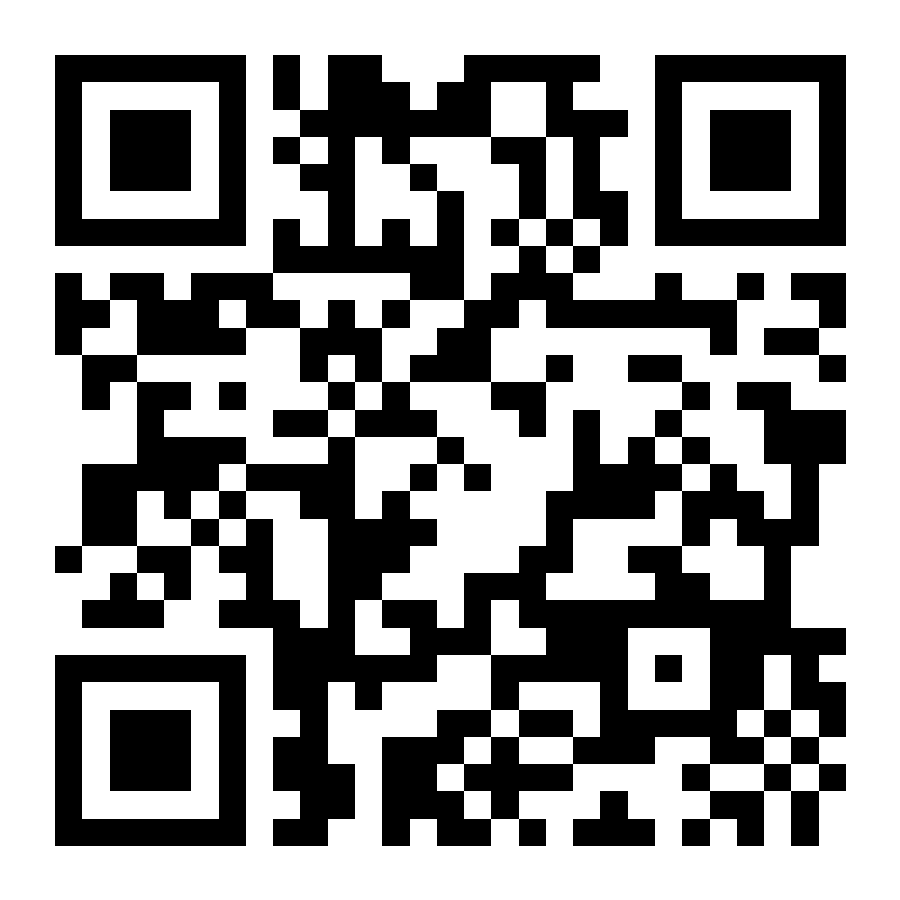
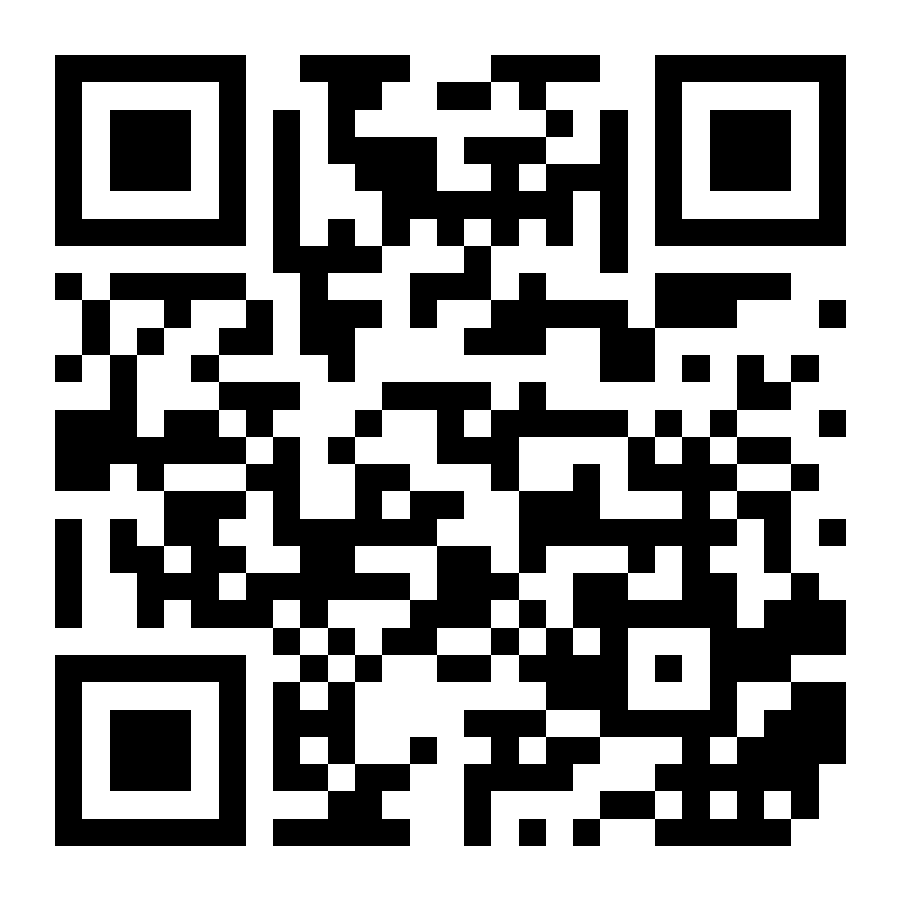
fix

Changed region(s): [[0.0622, 0.0622, 0.9644, 0.9644], [0.4978, 0.0622, 0.56, 0.0933]]

diff --git a/bcard/index.html b/bcard/index.html
@@ -2,39 +2,97 @@
 <html lang="en">
 <head>
 <meta charset="utf-8">
-<meta name="viewport" content="width=device-width, initial-scale=1, viewport-fit=cover, user-scalable=no">
-<meta name="theme-color" content="#050c1f">
-<meta name="mobile-web-app-capable" content="yes">
-<meta name="apple-mobile-web-app-capable" content="yes">
-<meta name="apple-mobile-web-app-status-bar-style" content="black-translucent">
-<title>Prasanjeet Debnath</title>
-<link rel="preload" as="image" href="assets/prasanjeet-product-style-3.png">
-<link rel="stylesheet" href="card.css">
+<meta name="viewport" content="width=device-width, initial-scale=1">
+<meta name="theme-color" content="#f4f6fb">
+<title>Scan to save card</title>
+<style>
+  * { box-sizing: border-box; }
+  body {
+    margin: 0; padding: 40px 20px 60px;
+    background: #f4f6fb; color: #0d1b3e;
+    font-family: system-ui, -apple-system, "Segoe UI", sans-serif;
+    display: flex; flex-direction: column; align-items: center; gap: 18px;
+  }
+  h1 { font-size: 20px; margin: 0; font-weight: 600; letter-spacing: -.2px; }
+  .panel {
+    background: #fff; padding: 28px; border-radius: 18px; text-align: center;
+    box-shadow: 0 2px 20px rgba(13,27,62,.10);
+    display: flex; flex-direction: column; align-items: center; gap: 16px;
+    max-width: 100%;
+  }
+  /* !important because toCanvas writes an inline width/height onto the element. */
+  canvas { width: 320px !important; max-width: 68vw; height: auto !important; display: block; }
+  .url {
+    font: 13px/1.5 ui-monospace, Menlo, Consolas, monospace;
+    color: #3d5280; word-break: break-all; max-width: 380px;
+    background: #f4f6fb; padding: 9px 12px; border-radius: 8px;
+  }
+  .row { display: flex; gap: 10px; flex-wrap: wrap; justify-content: center; }
+  button, a.btn {
+    padding: 11px 18px; border-radius: 10px; border: 1px solid #d3dbeb;
+    background: #fff; color: #0d1b3e; font: inherit; font-size: 13.5px;
+    font-weight: 600; cursor: pointer; text-decoration: none;
+  }
+  a.btn.primary {
+    background: linear-gradient(180deg, #2b8cff, #1a73e8);
+    color: #fff; border-color: transparent;
+  }
+  button:active, a.btn:active { transform: scale(.97); }
+  p.note { margin: 0; font-size: 12.5px; color: #5a6785; max-width: 420px; text-align: center; }
+  .warn {
+    background: #fff4e5; border: 1px solid #ffd9a8; color: #7a4a00;
+    padding: 12px 14px; border-radius: 10px; font-size: 13px; max-width: 460px;
+  }
+</style>
 </head>
 <body>
-  <div class="amb"></div>
+  <h1>Point your phone camera at the QR</h1>
 
-  <div class="stage">
-    <div class="float">
-      <div class="frame">
-        <img class="card" src="assets/prasanjeet-product-style-3.png" alt="Prasanjeet Debnath business card">
-      </div>
+  <div class="panel">
+    <canvas id="qr" width="1200" height="1200"></canvas>
+    <div class="url" id="url">…</div>
+    <div class="row">
+      <a class="btn primary" id="open" href="card.html">Open the card</a>
+      <a class="btn" id="dl" download="card-qr.png">Download QR for printing</a>
     </div>
   </div>
 
-  <div id="toast"></div>
+  <p class="note">
+    The QR encodes the address shown above — the card page — so it always
+    matches wherever this folder is hosted. Serve it from a public URL before
+    printing; a <code>localhost</code> or LAN address only works on this
+    network.
+  </p>
 
-  <div id="actions">
-    <a id="save" href="assets/prasanjeet-product-style-3.png">&#11015; Save Card</a>
-    <button id="share" type="button" hidden>&#8679; Share</button>
-    <button id="play" type="button">&#9654; Play</button>
-  </div>
+  <div class="warn" id="warn" hidden></div>
 
-  <div id="splash">
-    <video id="vid" src="assets/splash.mp4" playsinline preload="none"></video>
-    <button id="close" aria-label="Close">&#10005;</button>
-  </div>
+<script src="vendor/qrcode.min.js"></script>
+<script>
+  // This page is the launcher, so the QR must point at card.html — not at the
+  // folder, which would resolve back here and make scanning a loop. Derived
+  // from location, which keeps the code correct on localhost, on the LAN and
+  // on the deployed domain without regenerating.
+  const target = new URL('card.html', location.href).href;
+  document.getElementById('url').textContent = target;
+  document.getElementById('open').href = target;
 
-<script src="card.js"></script>
+  const canvas = document.getElementById('qr');
+  QRLib.toCanvas(canvas, target, { width: 1200, margin: 2 }, (err) => {
+    const warn = document.getElementById('warn');
+    if (err) {
+      warn.hidden = false;
+      warn.textContent = 'Could not draw the QR: ' + err.message;
+      return;
+    }
+    document.getElementById('dl').href = canvas.toDataURL('image/png');
+
+    if (location.protocol === 'file:') {
+      warn.hidden = false;
+      warn.textContent = 'Opened from the filesystem, so this QR encodes a '
+        + 'file:// path a phone cannot reach. Serve the folder over http first '
+        + '— for example: npx serve . -l 5173';
+    }
+  });
+</script>
 </body>
 </html>

diff --git a/bcard/card.html b/bcard/card.html
@@ -1,0 +1,40 @@
+<!doctype html>
+<html lang="en">
+<head>
+<meta charset="utf-8">
+<meta name="viewport" content="width=device-width, initial-scale=1, viewport-fit=cover, user-scalable=no">
+<meta name="theme-color" content="#050c1f">
+<meta name="mobile-web-app-capable" content="yes">
+<meta name="apple-mobile-web-app-capable" content="yes">
+<meta name="apple-mobile-web-app-status-bar-style" content="black-translucent">
+<title>Prasanjeet Debnath</title>
+<link rel="preload" as="image" href="assets/prasanjeet-product-style-3.png">
+<link rel="stylesheet" href="card.css">
+</head>
+<body>
+  <div class="amb"></div>
+
+  <div class="stage">
+    <div class="float">
+      <div class="frame">
+        <img class="card" src="assets/prasanjeet-product-style-3.png" alt="Prasanjeet Debnath business card">
+      </div>
+    </div>
+  </div>
+
+  <div id="toast"></div>
+
+  <div id="actions">
+    <a id="save" href="assets/prasanjeet-product-style-3.png">&#11015; Save Card</a>
+    <button id="share" type="button" hidden>&#8679; Share</button>
+    <button id="play" type="button">&#9654; Play</button>
+  </div>
+
+  <div id="splash">
+    <video id="vid" src="assets/splash.mp4" playsinline preload="none"></video>
+    <button id="close" aria-label="Close">&#10005;</button>
+  </div>
+
+<script src="card.js"></script>
+</body>
+</html>

diff --git a/bcard/README.md b/bcard/README.md
@@ -1,23 +1,25 @@
 # bcard — the scannable business card
 
-Lives at **https://prasanjeet.com/bcard/**. Scan the QR → the card fills the
-screen and saves itself with a datetime filename → tap the card → the splash
-video plays fullscreen with sound.
+**https://www.prasanjeet.com/bcard/** shows the QR. Scan it → the card fills
+the screen and saves itself with a datetime filename → tap the card → the
+splash video plays fullscreen with sound.
 
 Browser APIs only, no build step and no server. Copied from
-`ai automation/barcode-card/client`; the files are byte-identical to that build
-apart from this README and `qr.png`, which is regenerated for the live URL.
+`ai automation/barcode-card/client`; `card.css`, `card.js`, `vendor/` and
+`assets/` are byte-identical to that build. What differs is the entry point —
+upstream serves the card at the folder root and keeps the QR on `qr.html`, and
+those two are swapped here.
 
 ```
 bcard/
-├── index.html      the card page — what the QR points at
-├── qr.html         the launcher — shows the QR to scan
+├── index.html      the launcher — the QR, and what /bcard/ opens
+├── card.html       the card page — what the QR points at
 ├── card.css        styles, animations, ambient glow, orbiting border
 ├── card.js         save / share / fullscreen / splash logic
 ├── vendor/
 │   └── qrcode.min.js   QR encoder, bundled locally (24 kb, no CDN)
 ├── make-qr.mjs     optional: writes qr.png from the command line
-├── qr.png          encodes https://prasanjeet.com/bcard/
+├── qr.png          encodes https://www.prasanjeet.com/bcard/card.html
 └── assets/
     ├── prasanjeet-product-style-3.png   the card
     └── splash.mp4                       the logo animation
@@ -27,19 +29,24 @@ bcard/
 
 | Page | What it is |
 |---|---|
-| `index.html` | The card. This is what the QR opens. |
-| `qr.html` | The launcher — draws the QR on screen so you can scan it off a monitor while testing, and offers it as a PNG for printing. |
+| `index.html` | The launcher. `/bcard/` lands here — it draws the QR on screen to scan off a monitor, and offers it as a PNG for printing. |
+| `card.html` | The card. This is what the QR opens. |
 
-`qr.html` builds the QR **in the browser** from `location`, so it always encodes
-wherever the folder actually is — localhost, LAN IP, or the live domain — with
-nothing to regenerate.
+`index.html` builds the QR **in the browser** from `location`, so it always
+encodes wherever the folder actually is — localhost, LAN IP, or the live domain
+— with nothing to regenerate.
 
-Every path in `index.html` and `card.js` is relative, which is what lets the
+It targets `card.html` explicitly rather than the folder. Pointing it at the
+folder would resolve back to `index.html`, and scanning would just show the QR
+again — keep the filename in that `new URL(...)` call if you edit it.
+
+Every path in `card.html` and `card.js` is relative, which is what lets the
 folder sit at `/bcard/` rather than a domain root. GitHub Pages redirects
-`/bcard` to `/bcard/` on its own, so both spellings work.
+`/bcard` to `/bcard/` on its own, so both spellings work, and the apex domain
+301s to `www`.
 
-The site is deliberately not linked to this page from anywhere — it is reached
-by scanning the QR, or by typing the URL.
+The main site deliberately does not link here — this is reached by scanning the
+QR, or by typing the URL.
 
 ## Preview locally
 
@@ -47,28 +54,33 @@ by scanning the QR, or by typing the URL.
 npx serve . -l 5173
 ```
 
-`http://localhost:5173/qr.html` on the laptop, then scan with a phone on the
-same Wi-Fi. `http://localhost:5173` on its own is the card.
+`http://localhost:5173/bcard/` on the laptop is the QR; scan it with a phone on
+the same Wi-Fi and you land on the card. Serve the repo root rather than this
+folder so the local path matches production.
 
-`?debug=1` prints an on-screen trace — the static build has no endpoint to post
-logs to, so the overlay is the whole story.
+`?debug=1` on the card prints an on-screen trace — the static build has no
+endpoint to post logs to, so the overlay is the whole story.
 
 ## Reprinting the QR
 
-Open https://prasanjeet.com/bcard/qr.html and hit **Download QR for printing**;
-it encodes the live URL automatically. `make-qr.mjs` does the same from a
+Open https://www.prasanjeet.com/bcard/ and hit **Download QR for printing**; it
+encodes the live URL automatically. `make-qr.mjs` does the same from a
 terminal, but needs the `qrcode` package, which this repo does not carry — run
 it from the `barcode-card` project instead:
 
 ```bash
-node make-qr.mjs https://prasanjeet.com/bcard/   # writes qr.png
+node make-qr.mjs https://www.prasanjeet.com/bcard/card.html   # writes qr.png
 ```
 
 ## Swapping the card or video
 
 Replace the files in `assets/`. If you rename them, update the two paths in
-`index.html` and the `CARD` object at the top of `card.js`. `CARD.base` sets the
+`card.html` and the `CARD` object at the top of `card.js`. `CARD.base` sets the
 download filename prefix; the datetime is appended automatically.
+
+Note the card artwork has a QR printed into the image itself. That one is baked
+into the PNG and is not generated by anything here — changing `qr.png` or the
+launcher has no effect on it.
 
 ## Notes
 
